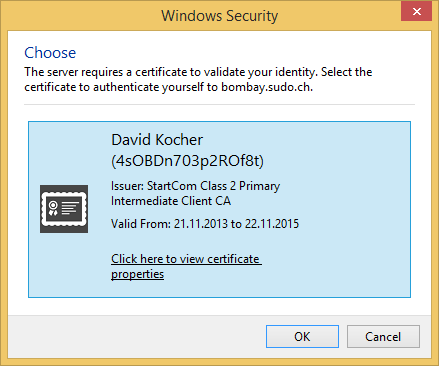
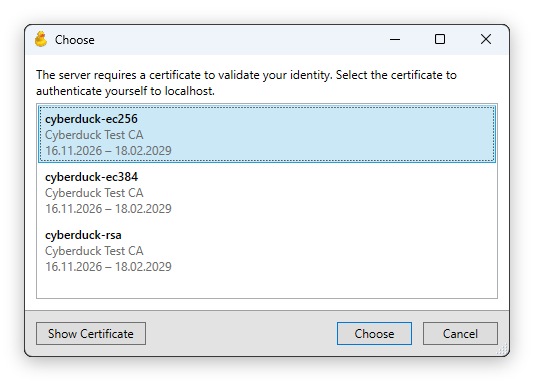
Document smartcard support for client certificates and SSH keys on macOS and Windows.
Document the single prompt to choose a client certificate listing the
certificates from the Keychain or Windows Certificate Manager together
with the certificates on a smartcard, the PKCS#11 module to set on
Windows and listing certificates from a smartcard in the bookmark.
Replace the screenshot of the certificate prompt on Windows.

diff --git a/protocols/sftp/index.md b/protocols/sftp/index.md
@@ -51,11 +51,13 @@ The following configuration options from `~/.ssh/config` are supported for SFTP 
 - *ProxyJump* to connect via SSH tunnel through bastion server.
 - *ProxyCommand* to connect through the standard input and output of a command.
 - *PreferredAuthentications* to set the order of authentication methods tried to login. Methods not listed are still tried afterwards.
-- *IdentitiesOnly*. Only try the private key set with *IdentityFile* in `~/.ssh/config` to authenticate but not all identities found in SSH agent. The key selected in the bookmark does not apply. With no *IdentityFile* set, no identity from the SSH agent is offered. Resolves _Too many authentication failures_ errors with servers limiting the number of attempted authentication requests.
+- *IdentitiesOnly*. Only try the private key set with *IdentityFile* in `~/.ssh/config` to authenticate but not all identities found in SSH agent or on a [smartcard](#smartcard-pkcs11-authentication). The key selected in the bookmark does not apply. With no *IdentityFile* set, no identity from the SSH agent or smartcard is offered. Resolves _Too many authentication failures_ errors with servers limiting the number of attempted authentication requests.
 - *Include* to read other configuration files and *Match* blocks with the criteria `host` and `user`.
 - *SecurityKeyProvider* for the middleware library signing with a [FIDO2 security key](../../tutorials/sftp_publickeyauth_securitykey.md) for `sk-ecdsa-sha2-nistp256@openssh.com` and `sk-ssh-ed25519@openssh.com` keys.
-- *PKCS11Provider* for the module reading keys from a [smartcard](../../tutorials/sftp_publickeyauth_pkcs11.md).
+- *PKCS11Provider* for the module reading keys from a [smartcard](../../tutorials/sftp_publickeyauth_pkcs11.md). Set to `none` to not use a smartcard for the host.
 - A [bookmark](../../cyberduck/bookmarks.md) will update its public key authentication setting from the *IdentityFile* configuration in `~/.ssh/config`. Also when opening a new [connection](../../cyberduck/connection.md#toolbar-button) using *File → Open Connection…, IdentityFile* and *User* parameters in the OpenSSH user config file are auto completed.
+
+Arguments with spaces such as a path can be enclosed in quotes or have the space escaped with a backslash. A `#` at the start of an argument begins a comment.
 
 Example `~/.ssh/config` configuration:
 
@@ -120,12 +122,12 @@ Applies to SSH servers, which are configured with [`TrustedUserCAKeys`](https://
 #### Security Key (FIDO2) Authentication
 
 :::{important}
-* Cyberduck [9.6.0](https://cyberduck.io/changelog/) or later required
+* Cyberduck [9.7.0](https://cyberduck.io/changelog/) or later required
 :::
 
 Keys of type `sk-ecdsa-sha2-nistp256@openssh.com` and `sk-ssh-ed25519@openssh.com` created with `ssh-keygen -t ecdsa-sk` respectively `ssh-keygen -t ed25519-sk` are supported. The private key of such a key never leaves the authenticator, which is either the Secure Enclave of a Mac unlocked with _Touch ID_ or a hardware token such as a _YubiKey_ touched to confirm. The key file selected in the [Bookmark](../../cyberduck/bookmarks.md) holds the credential handle only.
 
-Signing a login is delegated to the middleware library of the authenticator, set with the [`SecurityKeyProvider`](#configuration-file) directive in `~/.ssh/config`, the `SSH_SK_PROVIDER` environment variable or the [hidden configuration option](../../tutorials/hidden_properties.md) `ssh.authentication.securitykey.provider`. A value of the configuration directive beginning with `$` is read from the environment variable of that name. It defaults to `/usr/lib/ssh-keychain.dylib` for keys in the Secure Enclave on macOS. There is no default on other platforms, where OpenSSH talks to a token with built-in USB HID support instead of a library that could be loaded. Add the key to an [SSH agent](#public-key-authentication-using-ssh-agent) there, which prompts to confirm the login and works with any token supported by OpenSSH, or set the directive or option to a middleware library for the token.
+Signing a login is delegated to the middleware library of the authenticator, set with the [`SecurityKeyProvider`](#configuration-file) directive in `~/.ssh/config`, the `SSH_SK_PROVIDER` environment variable or the [hidden configuration option](../../tutorials/hidden_properties.md) `ssh.authentication.securitykey.provider`. A value of the configuration directive beginning with `$` is read from the environment variable of that name. The value `internal` selecting the support built into OpenSSH is ignored. It defaults to `/usr/lib/ssh-keychain.dylib` for keys in the Secure Enclave on macOS. There is no default on Linux, where OpenSSH talks to a token with built-in USB HID support instead of a library that could be loaded. Add the key to an [SSH agent](#public-key-authentication-using-ssh-agent) there, which prompts to confirm the login and works with any token supported by OpenSSH, or set the directive or option to a middleware library for the token. Loading a middleware library is not supported on Windows, where the key must be added to an SSH agent.
 
 :::{important}
 The server must run _OpenSSH 8.2_ or later. Earlier versions do not know the `sk-*` key types and ignore the entry in `authorized_keys`.
@@ -140,12 +142,46 @@ Follow the [step-by-step instructions](../../tutorials/sftp_publickeyauth_securi
 #### Smartcard (PKCS#11) Authentication
 
 :::{important}
-* Cyberduck [9.6.0](https://cyberduck.io/changelog/) or later required
+* Cyberduck [9.7.0](https://cyberduck.io/changelog/) or later required
 :::
 
-Private keys kept on a smartcard are read with the _PKCS#11_ module of the card, the equivalent of `ssh -I`. Every key on the card with a matching certificate is offered to the server in turn and the PIN is prompted for when required by the card. A key on a card without a certificate is not found.
+Private keys kept on a smartcard or a hardware token such as a _YubiKey_ with the _PIV_ application are read with the _PKCS#11_ module of the card, the equivalent of `ssh -I`. Every key on the card with a matching certificate is offered to the server in turn and the PIN is prompted for when required by the card. There is no prompt to choose a key. A key on a card without a certificate is not found. When more than one card is connected, only the first one found is used.
 
-Set the module with the [`PKCS11Provider`](#configuration-file) directive in `~/.ssh/config` or the [hidden configuration option](../../tutorials/hidden_properties.md) `ssh.authentication.pkcs11.library`. Set an absolute path to the module. On macOS, the file name `opensc-pkcs11.so` of the _OpenSC_ module bundled with the application is accepted as well. Set the [hidden configuration option](../../tutorials/hidden_properties.md) `ssh.authentication.pkcs11.enable` to `false` to disable authentication with a smartcard.
+:::::{tabs}
+::::{group-tab} macOS
+
+The _OpenSC_ module bundled with the application is used by default and a supported card is found with no further configuration. Set a different module with the [`PKCS11Provider`](#configuration-file) directive in `~/.ssh/config` or the [hidden configuration option](../../tutorials/hidden_properties.md) `connection.keystore.pkcs11.library` to the absolute path of the module.
+
+:::{note}
+The module `/usr/lib/ssh-keychain.dylib` included with macOS for smartcards paired with `sc_auth` can only be loaded by `ssh` and is not supported. Use the bundled _OpenSC_ module or the module from the vendor of the card instead.
+:::
+
+::::
+::::{group-tab} Windows
+
+No module is bundled with the application and no card is used with the default configuration. Install the module for your card such as [OpenSC](https://github.com/OpenSC/OpenSC/releases) for Windows (64-bit) and set the [hidden configuration option](../../tutorials/hidden_properties.md) `connection.keystore.pkcs11.library` to the path of the module. Write the path with forward slashes.
+
+```
+connection.keystore.pkcs11.library=C:/Program Files/OpenSC Project/OpenSC/pkcs11/opensc-pkcs11.dll
+```
+
+:::{note}
+A card connected to the Windows computer is not available in a _Remote Desktop_ session. Connect the card to the computer running the Remote Desktop client instead and enable the redirection of smart cards.
+:::
+
+::::
+:::::
+
+Keys on the card are attempted after the identities from the [SSH agent](#public-key-authentication-using-ssh-agent) and before the private key file selected in the bookmark. When a password is saved for the bookmark, password authentication is attempted first.
+
+- When a public key file is selected for _SSH Private Key_ in the [bookmark](../../cyberduck/bookmarks.md#edit-bookmark), only the matching key on the card is offered. No key is offered when none matches.
+- When a private key file is selected in the bookmark, the card is not used and there is no prompt for the PIN.
+- With [`IdentitiesOnly`](#configuration-file) in `~/.ssh/config`, only the key matching the public key file set with *IdentityFile* is offered. The card is not used when *IdentityFile* is missing or set to a private key file.
+- When the prompt for the PIN is canceled, the card is skipped and the login continues with the next authentication method.
+
+The option `connection.keystore.pkcs11.library` also sets the module used to read a [client certificate](../webdav/index.md#client-certificate-on-smartcard) from a smartcard.
+
+To not use a smartcard for a host, set `PKCS11Provider none` in `~/.ssh/config`. Set the [hidden configuration option](../../tutorials/hidden_properties.md) `ssh.authentication.pkcs11.enable` to `false` to disable authentication with a smartcard for all connections.
 
 :::{admonition} Tutorial
 :class: tip
@@ -447,13 +483,13 @@ Serv-U MFT does not fully implement SFTPv3. Files cannot be created, renamed, up
 
 ### Too Many Authentication Failures
 
-Running an SSH agent with many added identities can lead to the server error _Too many authentication failures_ when trying to authenticate with all available identities. 
+Running an SSH agent with many added identities or using a [smartcard](#smartcard-pkcs11-authentication) holding several keys can lead to the server error _Too many authentication failures_ when trying to authenticate with all available identities. 
 
 - Select the identity in the [bookmark](../../cyberduck/bookmarks.md#edit-bookmark) with _SSH Private Key_.
 - Increase the allowed authentication tries on the *server* by adjusting [`MaxAuthTries`](https://man.openbsd.org/sshd_config.5#MaxAuthTries).
 
 Possible remedies using configuration in [OpenSSH configuration file](#openssh-configuration-interoperability):
-- [`IdentitiesOnly`](https://man.openbsd.org/ssh_config.5#IdentitiesOnly) in client configuration file `~/.ssh/config`. Only try to authenticate with explicitly set private key instead of all identities retrieved from SSH agent.
+- [`IdentitiesOnly`](https://man.openbsd.org/ssh_config.5#IdentitiesOnly) in client configuration file `~/.ssh/config`. Only try to authenticate with explicitly set private key instead of all identities retrieved from SSH agent or smartcard.
 - Set [`PreferredAuthentications`](https://man.openbsd.org/ssh_config.5#PreferredAuthentications) in client configuration file `~/.ssh/config` to try another method such as `password` before public key authentication. Methods not listed are still tried afterwards.
 
 ### Illegal SFTP Packet Length: `Invalid packet: indicated length 1114795883 too large`

diff --git a/tutorials/sftp_publickeyauth_pkcs11.md b/tutorials/sftp_publickeyauth_pkcs11.md
@@ -17,13 +17,17 @@ Only keys with a matching certificate on the card are found. Cards holding a key
 :::::{tabs}
 ::::{group-tab} macOS
 
-1. Install the _PKCS#11_ module for your card. [OpenSC](https://github.com/OpenSC/OpenSC) supports many cards including _PIV_, _CAC_ and _OpenPGP_ cards.
+1. Install the _PKCS#11_ module for your card. [OpenSC](https://github.com/OpenSC/OpenSC) supports many cards including _PIV_, _CAC_ and _OpenPGP_ cards and hardware tokens such as a _YubiKey_ with the _PIV_ application.
    ```
    brew install opensc
    ```
 
    :::{tip}
-   Cyberduck and Mountain Duck already bundle _OpenSC_. Refer to the bundled library by its file name `opensc-pkcs11.so` instead of an absolute path when configuring the module. For a smartcard paired with macOS using `sc_auth pair`, the system module `/usr/lib/ssh-keychain.dylib` can be used instead.
+   Cyberduck already bundles _OpenSC_ and uses it by default. The installation is only required for the command line tools used in the following steps to read the public key from the card and to verify the setup with OpenSSH.
+   :::
+
+   :::{warning}
+   The module `/usr/lib/ssh-keychain.dylib` included with macOS for a smartcard paired with `sc_auth pair` can only be loaded by `ssh` and is not supported in Cyberduck and Mountain Duck.
    :::
 
 2. Verify the module can read the certificates from the card. Insert the card first.
@@ -36,6 +40,8 @@ Only keys with a matching certificate on the card are found. Cards holding a key
    ssh-keygen -D /opt/homebrew/lib/opensc-pkcs11.so > ~/.ssh/smartcard.pub
    ```
 
+   The command prints a line for every key on the card. Edit the file to only keep the line with the key to authenticate with.
+
 4. Add the public key to the `authorized_keys` in your `~/.ssh` directory on the server running OpenSSH.
    ```
    ssh-copy-id -fi ~/.ssh/smartcard.pub user@remotehost
@@ -46,33 +52,79 @@ Only keys with a matching certificate on the card are found. Cards holding a key
    ssh -I /opt/homebrew/lib/opensc-pkcs11.so user@remotehost
    ```
 
-6. Refer to the module in your OpenSSH configuration file `~/.ssh/config`.
-   ```
-   Host *
-       PKCS11Provider /opt/homebrew/lib/opensc-pkcs11.so
-   ```
+6. Add a new [Bookmark](../cyberduck/bookmarks.md) in Cyberduck or Mountain Duck. Enter the alias from your OpenSSH configuration or the hostname in _Server_. You do **not** need to set a value for _Password_ because the keys are read from the card.
 
-   This [configuration](https://docs.cyberduck.io/protocols/sftp/#openssh-configuration-interoperability) directive is supported by Cyberduck and Mountain Duck. You can restrict the setting to a single alias in the configuration file instead of matching it for all connections with `*`. Alternatively set the [hidden configuration option](hidden_properties.md) `ssh.authentication.pkcs11.library` to the path of the module or to `opensc-pkcs11.so` for the bundled version.
-
-7. Add a new [Bookmark](../cyberduck/bookmarks.md) in Cyberduck or Mountain Duck. Enter the alias from your OpenSSH configuration or the hostname in _Server_. You do **not** need to set a value for _Password_ or select a _SSH Private Key_ because the keys are read from the card.
+7. In _SSH Private Key_ select the public key `smartcard.pub` saved in step 3 to only offer the matching key on the card to the server.
 
    :::{tip}
-   The server may respond with _[Too many authentication failures](../protocols/sftp/index.md#too-many-authentication-failures)_ when the card holds several keys. Select the public key saved in step 3 for _SSH Private Key_ to only offer the matching identity.
+   With no key selected, every key on the card is offered to the server in turn. The server may respond with _[Too many authentication failures](../protocols/sftp/index.md#too-many-authentication-failures)_ when the card holds several keys.
    :::
 
-8. Connect to the server and enter the PIN of the card when prompted.
+8. Connect to the server and enter the PIN of the card when prompted. The PIN is requested once and the card remains unlocked until you quit the application.
+
+::::
+::::{group-tab} Windows
+
+1. Install the _PKCS#11_ module for your card. No module is bundled with Cyberduck on Windows. [OpenSC](https://github.com/OpenSC/OpenSC/releases) supports many cards including _PIV_, _CAC_ and _OpenPGP_ cards and hardware tokens such as a _YubiKey_ with the _PIV_ application. Choose the 64-bit installer.
+
+2. Set the [hidden configuration option](hidden_properties.md) `connection.keystore.pkcs11.library` to the path of the module and restart Cyberduck. Write the path with forward slashes.
+   ```
+   connection.keystore.pkcs11.library=C:/Program Files/OpenSC Project/OpenSC/pkcs11/opensc-pkcs11.dll
+   ```
+
+3. Add the public key of the key on the card to the `authorized_keys` in your `~/.ssh` directory on the server running OpenSSH. The public key is usually provided by the issuer of the card or can be read from the card with `ssh-keygen -D` and the path of the module.
+
+4. Add a new [Bookmark](../cyberduck/bookmarks.md). Enter the hostname in _Server_. You do **not** need to set a value for _Password_ because the keys are read from the card.
+
+5. In _SSH Private Key_ select the file with the public key to only offer the matching key on the card to the server.
+
+   :::{tip}
+   With no key selected, every key on the card is offered to the server in turn. The server may respond with _[Too many authentication failures](../protocols/sftp/index.md#too-many-authentication-failures)_ when the card holds several keys.
+   :::
+
+6. Connect to the server and enter the PIN of the card when prompted. The PIN is requested once and the card remains unlocked until you quit the application.
+
+   :::{note}
+   A card connected to the Windows computer is not available in a _Remote Desktop_ session. Connect the card to the computer running the Remote Desktop client instead and enable the redirection of smart cards.
+   :::
 
 ::::
 :::::
 
+## Use a Different Module
+
+The bundled _OpenSC_ module is used by default on macOS. To use the module from the vendor of your card instead, refer to it in your OpenSSH configuration file `~/.ssh/config`. On Windows, set the path of the module with the hidden configuration option as described above.
+
+```
+Host *
+    PKCS11Provider /path/to/module.so
+```
+
+This [configuration](https://docs.cyberduck.io/protocols/sftp/#openssh-configuration-interoperability) directive is supported by Cyberduck and Mountain Duck. You can restrict the setting to a single alias in the configuration file instead of matching it for all connections with `*`. Alternatively set the [hidden configuration option](hidden_properties.md) `connection.keystore.pkcs11.library` to the absolute path of the module.
+
+## Limit Connections Using the Card
+
+With a card inserted, the keys on the card are attempted for every connection before a private key file or the prompt for a password. You are prompted for the PIN of the card including for servers you do not log in to with a key on the card, unless a password is saved for the bookmark or the login succeeds with an identity from the SSH agent.
+
+- Cancel the prompt for the PIN to skip the card. The login continues with the private key file selected in the bookmark or the prompt for a password.
+- Select a private key file for _SSH Private Key_ in the [Bookmark](../cyberduck/bookmarks.md). The card is not used and there is no prompt for the PIN.
+- Set `PKCS11Provider none` for the host in `~/.ssh/config` to not use the card.
+- Set `IdentitiesOnly yes` for the host in `~/.ssh/config`. Only the key on the card matching the public key file set with `IdentityFile` is offered and the card is not used when `IdentityFile` is missing or set to a private key file.
+  ```
+  Host remotehost
+      IdentityFile ~/.ssh/smartcard.pub
+      IdentitiesOnly yes
+  ```
+- Set the [hidden configuration option](hidden_properties.md) `ssh.authentication.pkcs11.enable` to `false` to disable authentication with a smartcard for all connections.
+
 ## Troubleshooting
 
 :::{warning}
-When no key from the card is offered, verify the card holds a certificate for the key with `pkcs11-tool --module <module> --list-objects --type cert`. A key without a certificate on the card is not found.
+When no key from the card is offered, verify the card holds a certificate for the key with `pkcs11-tool --module <module> --list-objects --type cert`. A key without a certificate on the card is not found. When a public key file is selected in the bookmark, verify it matches a key on the card.
 :::
 
 :::{warning}
-When the connection continues with a prompt for a password, the module could not be loaded. Verify the path set with `PKCS11Provider` and that the same path works with `ssh -I`.
+When the connection continues with a prompt for a password with no prompt for the PIN before, no card was found or the module could not be loaded. Verify the card is inserted and that a path set with `PKCS11Provider` works with `ssh -I`. On Windows, verify the path set with `connection.keystore.pkcs11.library`.
 :::
 
 :::{note}
@@ -83,4 +135,5 @@ Removing the card while connected fails the session. Reconnect with the card ins
 
 - [OpenSC supported hardware](https://github.com/OpenSC/OpenSC/wiki/Supported-hardware-%28smart-cards-and-USB-tokens%29)
 - [`PKCS11Provider` in ssh_config](https://man.openbsd.org/ssh_config#PKCS11Provider)
+- [Client certificate on a smartcard](../protocols/webdav/index.md#client-certificate-on-smartcard) for mutual TLS with WebDAV.
 - [Use a FIDO2 Security Key](sftp_publickeyauth_securitykey.md) for authentication with a key in the Secure Enclave or on a hardware token such as a YubiKey.

diff --git a/cyberduck/bookmarks.md b/cyberduck/bookmarks.md
@@ -105,8 +105,8 @@ Select *Bookmark → Edit Bookmark (macOS `⌘E` Windows `Strg+E`)*. A panel whe
 | Nickname               | Any name for the bookmark describing it for easy access using the bookmark filter. You can<br/>also type this name in the bookmark view to select it by name.                                                                                                                                                                                                                                                                                                                                                                                                                                                                                                                                                                                                                                                                                                 |
 | Server                 | The hostname of the server. This is not editable if you have chosen a protocol with a predefined,<br/>non-configurable hostname. *Make sure no server path is included but only the domain name and instead set any server path in _Path_.*                                                                                                                                                                                                                                                                                                                                                                                                                                                                                                                                                                                                                   |
 | Username               | The login credentials from your service provider.                                                                                                                                                                                                                                                                                                                                                                                                                                                                                                                                                                                                                                                                                                                                                                                                             |
-| SSH Private<br/>Key    | For [SFTP](../protocols/sftp/index.md) connections only. Choose a private key for public key authentication instead of a<br/>password. If the key is password-protected, you are prompted to enter the passphrase to<br/>decrypt the key.                                                                                                                                                                                                                                                                                                                                                                                                                                                                                                                                                                                                                     |
-| Client<br/>Certificate | For [HTTPS](../protocols/webdav/index.md#mutual-tls-mtls) connections only. Choose a client certificate for mutual transport level security (TLS).                                                                                                                                                                                                                                                                                                                                                                                                                                                                                                                                                                                                                                                                                                            |
+| SSH Private<br/>Key    | For [SFTP](../protocols/sftp/index.md) connections only. Choose a private key for public key authentication instead of a<br/>password. If the key is password-protected, you are prompted to enter the passphrase to<br/>decrypt the key. Select a public key file to only offer the matching<br/>key from the SSH agent or a [smartcard](../protocols/sftp/index.md#smartcard-pkcs11-authentication).                                                                                                                                                                                                                                                                                                                                                                                                                                                        |
+| Client<br/>Certificate | For [HTTPS](../protocols/webdav/index.md#mutual-tls-mtls) connections only. Choose a client certificate for mutual transport level security (TLS). Certificates on a<br/>[smartcard](../protocols/webdav/index.md#client-certificate-on-smartcard) are listed after entering the PIN of the card.                                                                                                                                                                                                                                                                                                                                                                                                                                                                                                                                                             |
 | Path                   | The initial working directory when connecting to the server. This must be the document root of<br/>the webserver if you want to configure HTTP URLs ([see below](#web-url)) to work.                                                                                                                                                                                                                                                                                                                                                                                                                                                                                                                                                                                                                                                                          |
 | Web URL                | HTTP server address                                                                                                                                                                                                                                                                                                                                                                                                                                                                                                                                                                                                                                                                                                                                                                                                                                           |
 | Download<br/>Folder    | Default location for files downloaded from this server.                                                                                                                                                                                                                                                                                                                                                                                                                                                                                                                                                                                                                                                                                                                                                                                                       |

diff --git a/protocols/webdav/index.md b/protocols/webdav/index.md
@@ -60,17 +60,103 @@ Mutual (two-way) TLS with a client certificate for authentication is supported.
 
 #### Prompt to Authenticate with Certificate When Negotiating Secure (TLS) Connection
 
-When a server requests a client certificate for authentication, a prompt is displayed to choose a certificate with a
-private key that matches the given issuer name requested from the server. Matching certificates are searched for in the
-*Keychain* on macOS or the *Windows Certificate Manager* respectively.
+When a server requests a client certificate for authentication and no certificate is selected in the bookmark, a prompt
+is displayed to choose a certificate with a private key issued by an authority accepted by the server. The prompt lists
+the certificates from the *Keychain* on macOS or the *Windows Certificate Manager* respectively together with the
+certificates on a [smartcard](#client-certificate-on-smartcard). The chosen certificate is saved in the bookmark.
 
-![Windows Security Prompt](_images/Windows-Security-Prompt.png)
+![Choose Client Certificate](_images/Windows-Security-Prompt.png)
 
 #### Select Client Certificate in Bookmark
 
-You can also preselect a certificate to use for authentication when editing the bookmark.
+You can also preselect a certificate to use for authentication when editing the bookmark. Certificates on a
+[smartcard](#client-certificate-on-smartcard) are listed as well.
 
 ![WebDAV Bookmark Client Certificate](_images/WebDAV_Bookmark_Client_Certificate.png)
+
+#### Client Certificate on Smartcard
+
+:::{important}
+* Cyberduck [9.7.0](https://cyberduck.io/changelog/) or later required
+:::
+
+A certificate with its private key on a smartcard or a hardware token such as a _YubiKey_ with the _PIV_ application can be
+used for authentication. The private key never leaves the card, which signs the TLS handshake after the PIN is entered.
+The certificates on the card are read with the _PKCS#11_ module set with the
+[hidden configuration option](../../tutorials/hidden_properties.md) `connection.keystore.pkcs11.library` and listed
+together with the certificates from the *Keychain* or the *Windows Certificate Manager* in the prompt when connecting and
+in *Client Certificate* when editing the bookmark.
+
+- You are prompted for the PIN of the card to read its certificates. The PIN is requested once and the card remains
+  unlocked until you quit the application. When the prompt for the PIN is canceled, only the certificates from the
+  *Keychain* or the *Windows Certificate Manager* are listed.
+- With a card inserted, opening a bookmark with the option to select a client certificate prompts for the PIN to list
+  the certificates on the card.
+- A certificate available from both the card and the *Keychain* or the *Windows Certificate Manager* is listed once.
+- The same option sets the module used for
+  [public key authentication with a smartcard](../sftp/index.md#smartcard-pkcs11-authentication) for SFTP connections.
+
+:::::{tabs}
+::::{group-tab} macOS
+
+A smartcard is not available in the *Keychain*. The card is read with the _OpenSC_ _PKCS#11_ module bundled with the
+application by default and a supported card is found with no further configuration. To use the module from the vendor of
+your card instead, set `connection.keystore.pkcs11.library` to the absolute path of the module.
+
+:::{note}
+With _OpenSC_, a certificate is listed with the name of its slot on the card such as *Certificate for PIV Authentication*
+instead of the subject of the certificate.
+:::
+
+:::{note}
+The module `/usr/lib/ssh-keychain.dylib` included with macOS for smartcards paired with `sc_auth` can only be loaded by
+`ssh` and is not supported.
+:::
+
+::::
+::::{group-tab} Windows
+
+A certificate on a smartcard is available in two ways, which can be combined.
+
+- **Windows Certificate Manager:** With the driver of the card installed, Windows copies the certificates on the card to
+  the personal certificate store of the user when the card is inserted. They are listed with no configuration in the
+  application and Windows prompts for the PIN of the card when signing. With the driver for _PIV_ cards included with
+  Windows, only the certificate for _PIV Authentication_ in slot 9a is available.
+- **_PKCS#11_ module:** No module is bundled with the application and none is used by default. Install the module for
+  your card such as [OpenSC](https://github.com/OpenSC/OpenSC/releases) for Windows (64-bit) and set
+  `connection.keystore.pkcs11.library` to the path of the module, written with forward slashes. All certificates on the
+  card are then listed, such as certificates with an EC key in other slots, and the application prompts for the PIN.
+  ```
+  connection.keystore.pkcs11.library=C:/Program Files/OpenSC Project/OpenSC/pkcs11/opensc-pkcs11.dll
+  ```
+
+When a certificate is available both ways, the card read with the module is used to sign and the PIN is only requested
+once.
+
+:::{note}
+When a certificate on the card is not listed with no module set, verify it is displayed in *Personal → Certificates* of
+the *Windows Certificate Manager* (`certmgr.msc`) with the card inserted. If missing, install the driver from the vendor
+of the card.
+:::
+
+:::{note}
+A card connected to the Windows computer is not available in a _Remote Desktop_ session. Connect the card to the
+computer running the Remote Desktop client instead and enable the redirection of smart cards.
+:::
+
+::::
+:::::
+
+:::{tip}
+Select *Anonymous Login* in the bookmark when the server does not require a username and password in addition to the
+certificate. You are prompted for login credentials before connecting otherwise.
+:::
+
+:::{note}
+When the prompt to choose a certificate is canceled, no certificate is sent and you are not asked again for the bookmark.
+Select the certificate in *Client Certificate* of the bookmark to use it. With a certificate from a smartcard selected in
+the bookmark, you are prompted for the PIN when connecting.
+:::
 
 ### Trust Certificate
 

diff --git a/tutorials/sftp_publickeyauth_securitykey.md b/tutorials/sftp_publickeyauth_securitykey.md
@@ -11,7 +11,7 @@ Configure Public Key Authentication for SFTP using a FIDO2 Security Key
 The key file in `~/.ssh` holds a reference to the credential on the authenticator but no private key. Signing a login is therefore delegated either to a _security key provider_ library talking to the authenticator or to an [SSH agent](#let-an-ssh-agent-handle-the-security-key) holding the key.
 
 :::{note}
-A security key provider library is configured by default on macOS only, serving keys in the Secure Enclave. On Windows and Linux OpenSSH talks to a token with built-in USB HID support instead of a library, which Cyberduck cannot load. Leave the key to an [SSH agent](#let-an-ssh-agent-handle-the-security-key) there, or set `SecurityKeyProvider` to a middleware library for your token.
+A security key provider library is configured by default on macOS only, serving keys in the Secure Enclave. On Windows and Linux OpenSSH talks to a token with built-in USB HID support instead of a library, which Cyberduck cannot load. Leave the key to an [SSH agent](#let-an-ssh-agent-handle-the-security-key) there, or set `SecurityKeyProvider` to a middleware library for your token on Linux. Loading a middleware library is not supported on Windows.
 :::
 
 :::{important}
@@ -148,12 +148,20 @@ When the connection fails with the message _No security key provider configured_
 :::
 
 :::{warning}
+When the connection fails with the message _Security key authentication is not supported on Windows_, the security key selected in the bookmark is not held by an SSH agent. Loading a middleware library is not supported on Windows. Add the key to an [SSH agent](#let-an-ssh-agent-handle-the-security-key) instead.
+:::
+
+:::{warning}
+When the connection fails with the message _No security key found_, the hardware token holding the key is not connected. Insert the token and connect again.
+:::
+
+:::{warning}
 When the server refuses the key without prompting for a touch, the public key is not accepted. Verify the entry in `authorized_keys` and that the server runs _OpenSSH 8.2_ or later.
 :::
 
 ## References
 
-- [Cyberduck 9.6.0](https://cyberduck.io/changelog/) or later is required for authentication with a security key without an SSH agent.
+- [Cyberduck 9.7.0](https://cyberduck.io/changelog/) or later is required for authentication with a security key without an SSH agent.
 - [OpenSSH 8.2 release notes announcing FIDO/U2F support](https://www.openssh.com/txt/release-8.2)
 - [PROTOCOL.u2f describing the `sk-*` key types](https://github.com/openssh/openssh-portable/blob/master/PROTOCOL.u2f)
 - [Yubico Developers: Securing SSH with FIDO2](https://developers.yubico.com/SSH/Securing_SSH_with_FIDO2.html)

diff --git a/protocols/ftp.md b/protocols/ftp.md
@@ -38,9 +38,9 @@ TLSv1 and TLSv1.1 are no longer supported as of
 
 ### Mutual TLS
 
-Mutual (two-way) TLS with a client certificate for authentication is supported. When a server requests a client certificate for authentication, a prompt is displayed to choose a certificate with a private key that matches the given issuer name requested from the server. Matching certificates are searched for in the Keychain on macOS or the Windows Certificate Manager respectively.
+Mutual (two-way) TLS with a client certificate for authentication is supported. When a server requests a client certificate for authentication and no certificate is selected in the bookmark, a prompt is displayed to choose a certificate with a private key issued by an authority accepted by the server. The prompt lists the certificates from the Keychain on macOS or the Windows Certificate Manager respectively together with the certificates on a [smartcard](webdav/index.md#client-certificate-on-smartcard).
 
-![Windows Security Prompt](_images/Windows-Security-Prompt.png)
+![Choose Client Certificate](_images/Windows-Security-Prompt.png)
 
 ### Switch to Secure Connection
 
